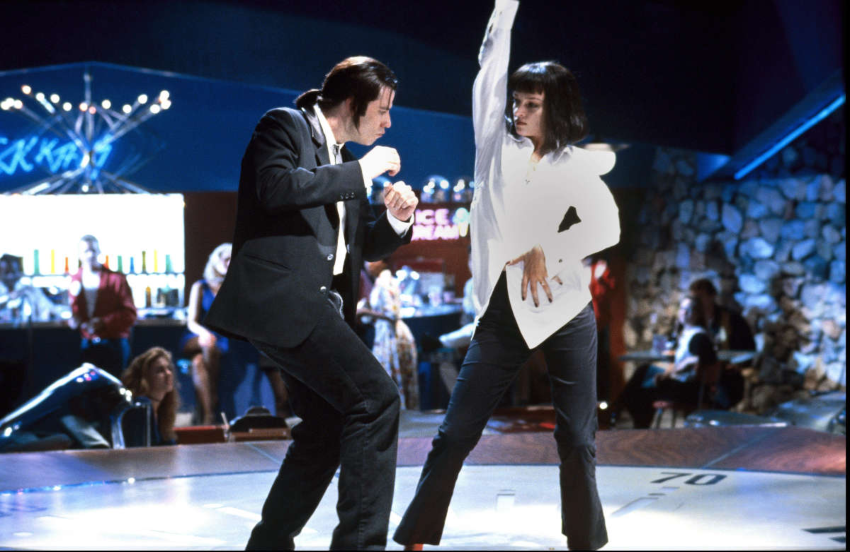
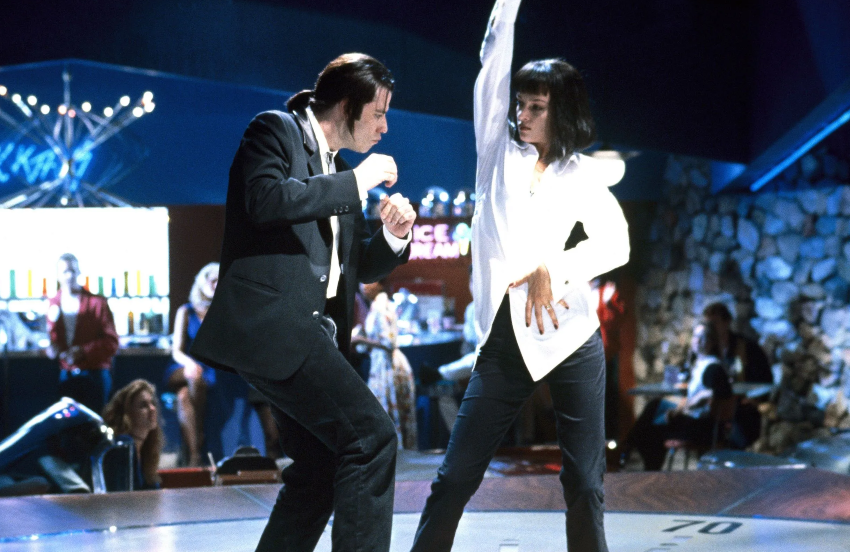
Update: Minor Image Fix. Movie Home Page Change. 1 Movie Transition From Ranking Every Movie Page 1 to Page 4. (#3)

diff --git a/MovieCodes/RankingEveryMovie3.html b/MovieCodes/RankingEveryMovie3.html
@@ -89,6 +89,17 @@
         <img class="socials" src="../Images/LeagueComicGeeks.png" alt="League of Comic Geeks Link"></a>
 </div>
     <div class="card">
+    <img alt="Gladiator" class="cardIMG" src="../Images/Gladiator.png">
+    <div class="box">
+        <h3>Gladiator</h3>
+        <h3>2000 ⚔ Rated R ⚔ Action ⚔ Adventure ⚔ 2 Hours 35 Minutes</h3>
+        <h3>A Ridley Scott Film</h3>
+        <h3>Starring Russell Crowe, Joaquin Phoenix, Connie Nielsen, Derek Jacobi, Djimon Hounsou, Richard Harris, and Oliver Reed</h3>
+        <h3>My Review: "9/10. Crowe, Phoenix, and Nielsen were great in this. However, once Maximus reveals himself to Commodus, the movie just felt too dragged out.
+            That probably is because I watched the extended version though."</h3>
+    </div>
+</div>
+    <div class="card">
     <img alt="BladeRunner2049" class="cardIMG" src="../Images/BladeRunner2049.png">
     <div class="box">
         <h3>Blade Runner 2049</h3>
@@ -1112,16 +1123,6 @@
             <h3>A Damien Chazelle Film</h3>
             <h3>Starring Emma Stone, Ryan Gosling, John Legend, J.K. Simmons, Rosemarie DeWitt, and Finn Wittrock</h3>
             <h3>My Review: "10/10. I love this movie so much, but the ending crushed any sense of hope in my soul."</h3>
-        </div>
-    </div>
-    <div class="card">
-        <img alt="ForrestGump" class="cardIMG" src="../Images/ForrestGump.png">
-        <div class="box">
-            <h3>Forrest Gump</h3>
-            <h3>1994 🏃♂ Rated PG-13 🏃♂ Drama 🏃♂ Romance 🏃♂ 2 Hours 22 Minutes</h3>
-            <h3>A Robert Zemeckis Film</h3>
-            <h3>Starring Tom Hanks, Robin Wright, Gary Sinise, Sally Field, Mykelti Williamson, Harley Joel Osment, Michael Conner Humphreys, and Hanna R. Hall</h3>
-            <h3>My Review: "10/10. This is easily the saddest movie I've ever seen."</h3>
         </div>
     </div>
 <button onclick="topFunction()" id="myBtn" title="Go to top">Got to Top of Page</button>

diff --git a/MovieCodes/RankingEveryMovie2.html b/MovieCodes/RankingEveryMovie2.html
@@ -89,6 +89,16 @@
         <img class="socials" src="../Images/LeagueComicGeeks.png" alt="League of Comic Geeks Link"></a>
 </div>
     <div class="card">
+    <img alt="Frozen" class="cardIMG" src="../Images/Frozen.png">
+    <div class="box">
+        <h3>Frozen</h3>
+        <h3>2013 ❄ Rated PG ❄ Adventure ❄ Comedy ❄ 1 Hour 42 Minutes</h3>
+        <h3>A Chris Buck and Jennifer Lee Film</h3>
+        <h3>Starring Idina Menzel, Kristen Bell, Jonathan Groff, Josh Gad, and Santino Fontana</h3>
+        <h3>My Review: "7.8/10. They have announced Frozen 3. I'll either watch it on disney+ or just skip it if the reviews are that ass."</h3>
+    </div>
+</div>
+    <div class="card">
     <img alt="TFOTF" class="cardIMG" src="../Images/TFOTF.png">
     <div class="box">
         <h3>The Fate of the Furious</h3>
@@ -1114,17 +1124,6 @@
         <h3>A Quentin Tarantino Film</h3>
         <h3>Starring Brad Pitt, Mélanie Laurent, Christoph Waltz, B.J. Novak, Eli Roth, Omar Doom, Daniel Brühl, Diane Kruger, Michael Fassbender, Til Schweiger, and Gedeon Burkhard</h3>
         <h3>My Review: "9/10. So much great memorable scenes, but damn it Shosanna should've lived."</h3>
-    </div>
-</div>
-    <div class="card">
-    <img alt="Gladiator" class="cardIMG" src="../Images/Gladiator.png">
-    <div class="box">
-        <h3>Gladiator</h3>
-        <h3>2000 ⚔ Rated R ⚔ Action ⚔ Adventure ⚔ 2 Hours 35 Minutes</h3>
-        <h3>A Ridley Scott Film</h3>
-        <h3>Starring Russell Crowe, Joaquin Phoenix, Connie Nielsen, Derek Jacobi, Djimon Hounsou, Richard Harris, and Oliver Reed</h3>
-        <h3>My Review: "9/10. Crowe, Phoenix, and Nielsen were great in this. However, once Maximus reveals himself to Commodus, the movie just felt too dragged out.
-            That probably is because I watched the extended version though."</h3>
     </div>
 </div>
 <button onclick="topFunction()" id="myBtn" title="Go to top">Got to Top of Page</button>

diff --git a/MovieCodes/RankingEveryMovie1.html b/MovieCodes/RankingEveryMovie1.html
@@ -274,6 +274,17 @@
         </div>
     </div>
     <div class="card">
+    <img alt="PlanetOfTheApes01" class="cardIMG" src="../Images/PlanetOfTheApes01.png">
+    <div class="box">
+        <h3>Planet of the Apes</h3>
+        <h3>2001 🦍 Rated PG-13 🦍 Action 🦍 Adventure 🦍 2 Hours</h3>
+        <h3>A Tim Burton Film</h3>
+        <h3>Starring Mark Wahlberg, Helena Bonham Carter, Estella Warren, Tim Roth, Cary-Hiroyuki Tagawa, Evan Dexter Parke, Erick Avari, Luke Eberl, Paul Giamatti, Michael Clark Duncan,
+        Kris Kristofferson</h3>
+        <h3>My Review: "6/10. A boring movie starring Mark Wahlberg is one thing, but having a bad, confusing ending starring Mark Wahlberg is inexcusable."</h3>
+    </div>
+</div>
+    <div class="card">
     <img alt="IncredibleHulk" class="cardIMG" src="../Images/IncredibleHulk.png">
     <div class="box">
         <h3>The Incredible Hulk</h3>
@@ -1111,16 +1122,6 @@
         <h3>Starring Vin Diesel, Paul Walker, Michelle Rodriguez, Jordana Brewster, Dwayne Johnson, Tyrese Gibson, Chris Bridges, Sung Kang, Gal Gadot,
         Luke Evans, Gina Carano, and Elsa Pataky</h3>
         <h3>My Review: "7.8/10. The dialogue treated us like toddlers but it's ok because cool crazy stunt."</h3>
-    </div>
-</div>
-    <div class="card">
-    <img alt="Frozen" class="cardIMG" src="../Images/Frozen.png">
-    <div class="box">
-        <h3>Frozen</h3>
-        <h3>2013 ❄ Rated PG ❄ Adventure ❄ Comedy ❄ 1 Hour 42 Minutes</h3>
-        <h3>A Chris Buck and Jennifer Lee Film</h3>
-        <h3>Starring Idina Menzel, Kristen Bell, Jonathan Groff, Josh Gad, and Santino Fontana</h3>
-        <h3>My Review: "7.8/10. They have announced Frozen 3. I'll either watch it on disney+ or just skip it if the reviews are that ass."</h3>
     </div>
 </div>
 <button onclick="topFunction()" id="myBtn" title="Go to top">Got to Top of Page</button>

diff --git a/MovieCodes/MovieHome.html b/MovieCodes/MovieHome.html
@@ -88,10 +88,10 @@
 </div>
     <div class="home-row">
         <div>
-            <img alt="LatestWatchedMovie" class="poster" src="https://image.tmdb.org/t/p/original/ehYkgIEVkJY0SBX8cGHjmKtCeri.jpg">
+            <img alt="LatestWatchedMovie" class="poster" src="https://image.tmdb.org/t/p/original/ijUi5kIYpiosJFPosuDwyaDJAc5.jpg">
             <div class="details">
                 <h2>Latest Watched</h2>
-                <h3>Toy Story 4</h3>
+                <h3>Planet of the Apes</h3>
             </div>
         </div>
         <div>
@@ -125,10 +125,10 @@
             </div>
         </div>
         <div>
-            <img alt="WorstMonthMovie" class="poster" src="https://image.tmdb.org/t/p/original/6bpEq4Us6P0hS8gJS6xdX7HftM3.jpg">
+            <img alt="WorstMonthMovie" class="poster" src="https://image.tmdb.org/t/p/original/ijUi5kIYpiosJFPosuDwyaDJAc5.jpg">
             <div class="details">
                 <h2>Worst of July</h2>
-                <h3>Beneath the Planet of the Apes</h3>
+                <h3>Planet of the Apes</h3>
             </div>
         </div>
         <div>

diff --git a/MovieCodes/RankingEveryMovie4.html b/MovieCodes/RankingEveryMovie4.html
@@ -89,6 +89,16 @@
         <img class="socials" src="../Images/LeagueComicGeeks.png" alt="League of Comic Geeks Link"></a>
 </div>
     <div class="card">
+    <img alt="ForrestGump" class="cardIMG" src="../Images/ForrestGump.png">
+    <div class="box">
+        <h3>Forrest Gump</h3>
+        <h3>1994 🏃♂ Rated PG-13 🏃♂ Drama 🏃♂ Romance 🏃♂ 2 Hours 22 Minutes</h3>
+        <h3>A Robert Zemeckis Film</h3>
+        <h3>Starring Tom Hanks, Robin Wright, Gary Sinise, Sally Field, Mykelti Williamson, Harley Joel Osment, Michael Conner Humphreys, and Hanna R. Hall</h3>
+        <h3>My Review: "10/10. This is easily the saddest movie I've ever seen."</h3>
+    </div>
+</div>
+    <div class="card">
     <img alt="TrumanShow" class="cardIMG" src="../Images/TrumanShow.png">
     <div class="box">
         <h3>The Truman Show</h3>
